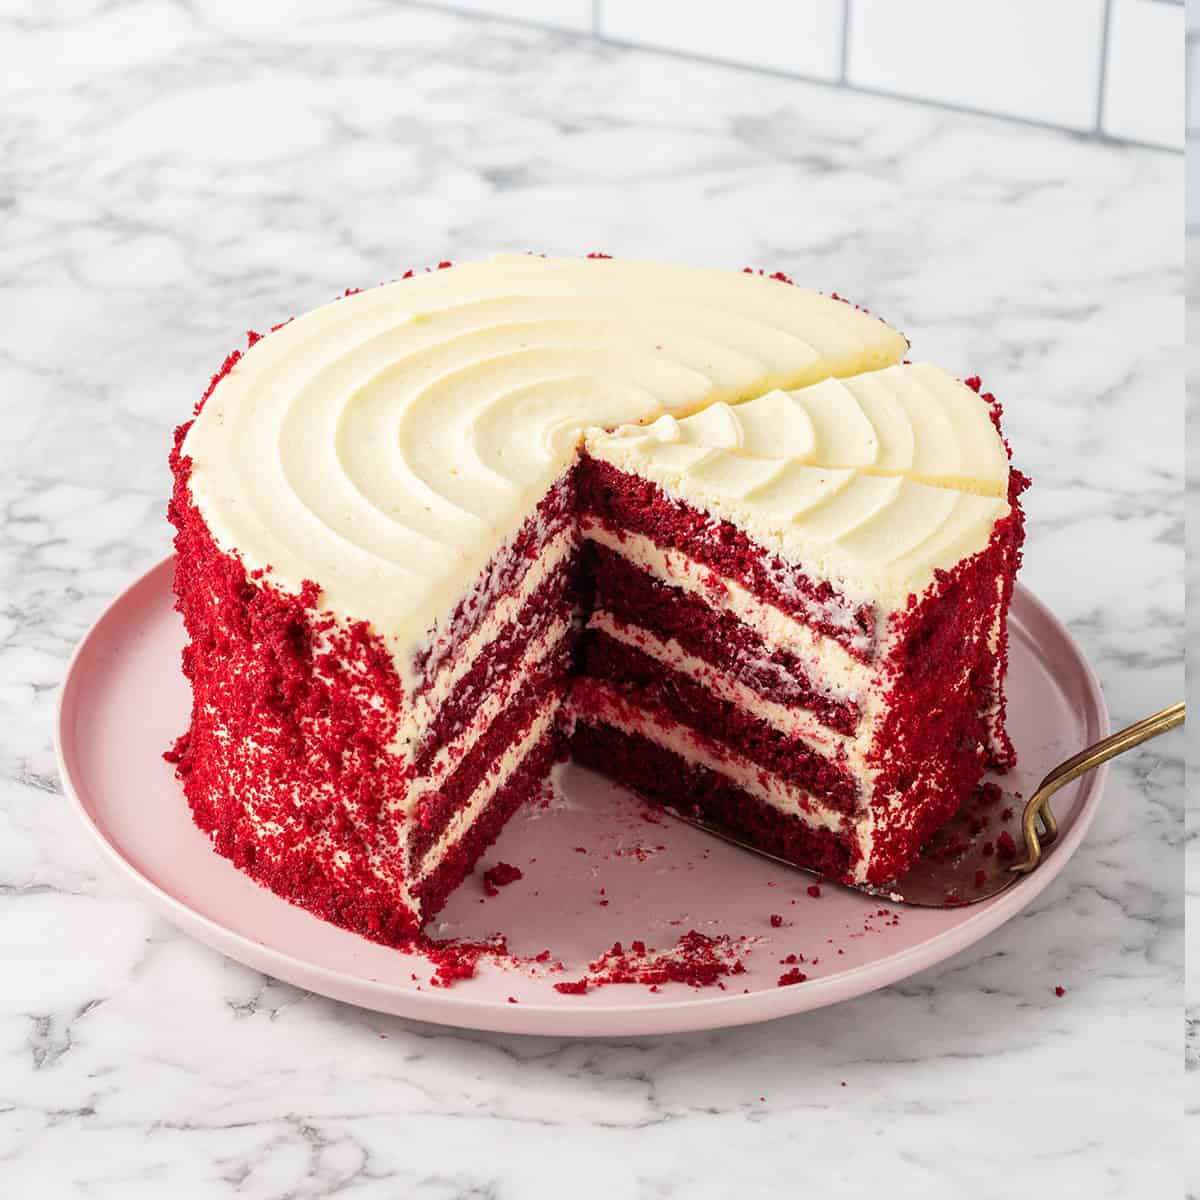
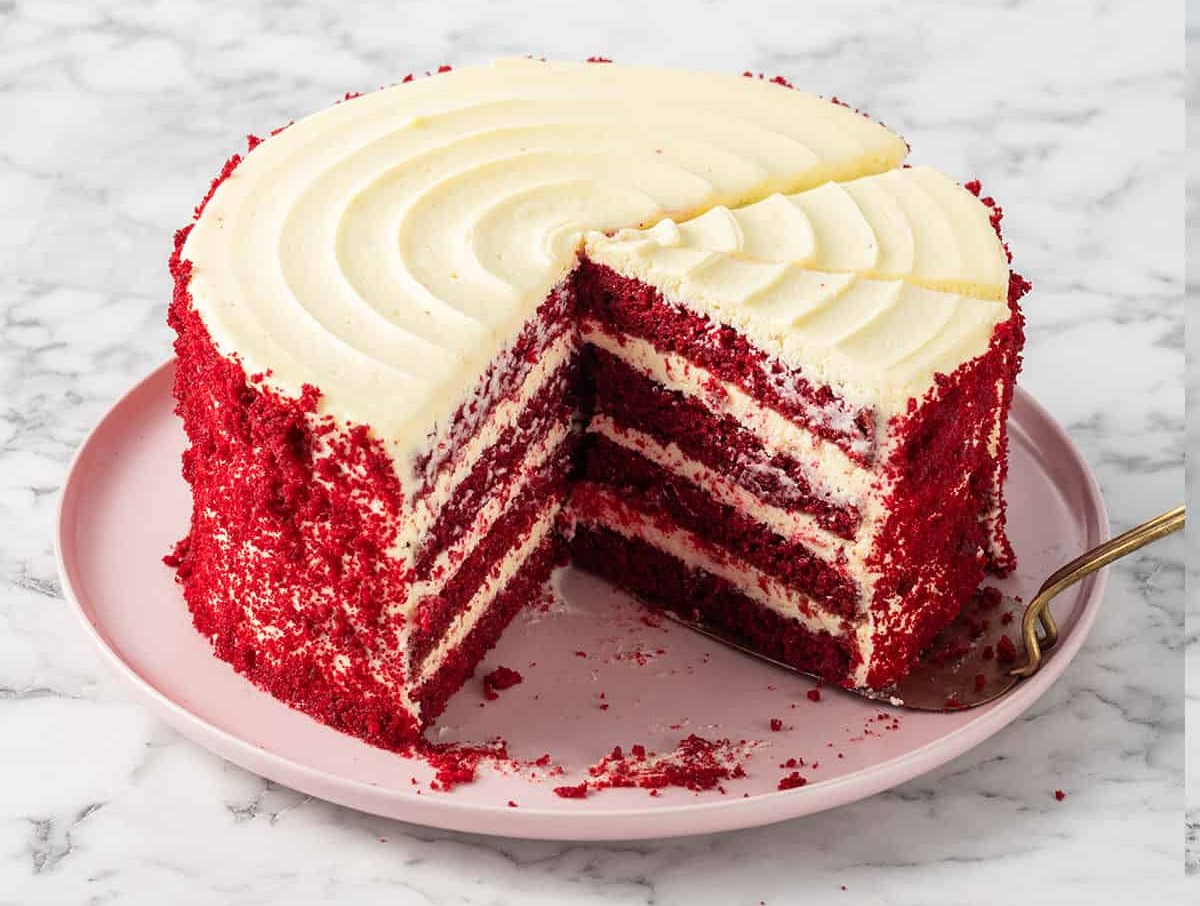
added images

diff --git a/script.js b/script.js
@@ -126,13 +126,13 @@ document.addEventListener("DOMContentLoaded", function () {
         "cakes": [
             { id: 42, name: "Cupcake", price: 2.50, image: "Images/cup.jpg" },
             { id: 43, name: "Carrot Cake", price: 4.50, image: "images/carrot.jpg" },
-            { id: 44, name: "Coffee Cake", price: 5.00, image: "Images/coffeecake.jpg" },
-            { id: 45, name: "Ribbon Cake", price: 5.00, image: "Images/coffeecake.jpg" },
-            { id: 46, name: "Cake Pieces", price: 5.00, image: "Images/coffeecake.jpg" },
-            { id: 47, name: "Caramel Cake", price: 5.00, image: "Images/coffeecake.jpg" },
-            { id: 48, name: "Cheese Cake", price: 5.00, image: "Images/coffeecake.jpg" },
-            { id: 49, name: "Red-Velvet Cake", price: 5.00, image: "Images/coffeecake.jpg" },
-            { id: 50, name: "Fruit Gateau", price: 5.00, image: "Images/coffeecake.jpg" }
+            { id: 44, name: "Coffee Cake", price: 5.00, image: "Images/coffee cake.jpg" },
+            { id: 45, name: "Ribbon Cake", price: 5.00, image: "Images/ribbon.jpg" },
+            { id: 46, name: "Cake Pieces", price: 5.00, image: "Images/pieses.jpg" },
+            { id: 47, name: "Caramel Cake", price: 5.00, image: "Images/caramel.jpg" },
+            { id: 48, name: "Cheese Cake", price: 5.00, image: "Images/cheese cake.jpg" },
+            { id: 49, name: "Red-Velvet Cake", price: 5.00, image: "Images/red.jpg" },
+            { id: 50, name: "Fruit Gateau", price: 5.00, image: "Images/fruit.jpg" }
         ]
     };
 
